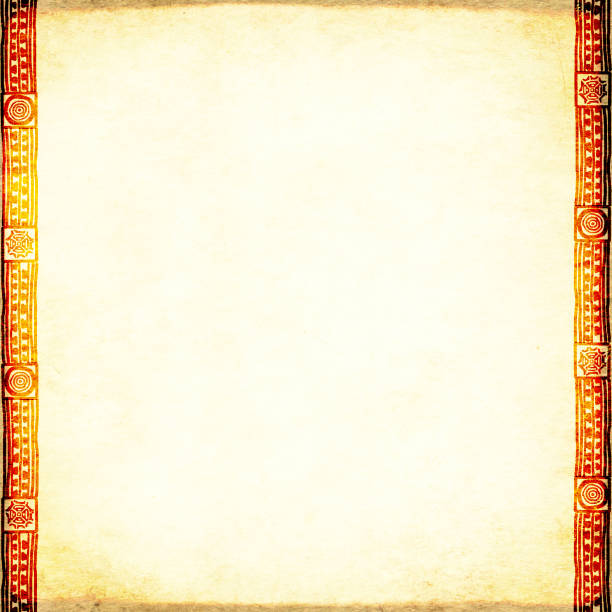
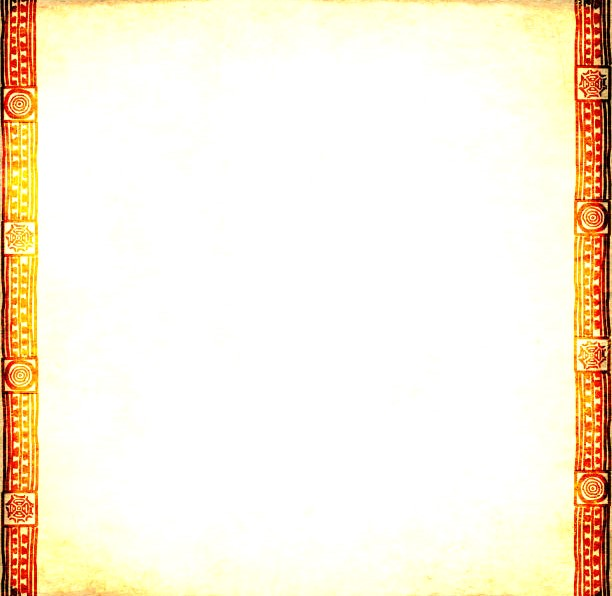
commit

diff --git a/style.css b/style.css
@@ -25,7 +25,7 @@ main {
     border: 5px solid #5e2900; /* Set the border width and color */
     border-radius: 20px; /* Rounded corners */
     box-shadow: 0 0 10px rgba(0, 0, 0, 0.3); /* Add a shadow effect */
-    background-image: url(FinalBg1.jpg);
+    background-image: url(FinalBg.jpg);
     background-repeat: repeat-y;
     background-size: contain;
   }
